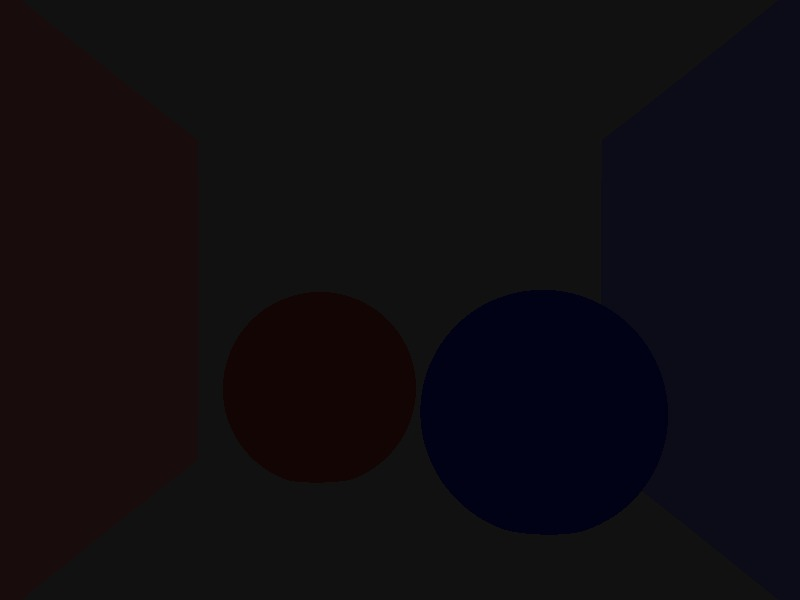
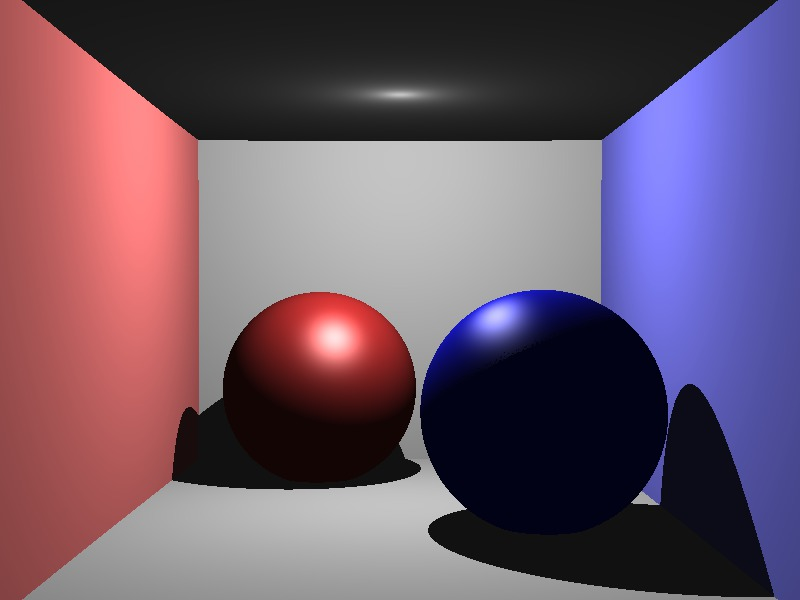
update project 3 to have the properly working shadows in the write-up

diff --git a/prj3.html b/prj3.html
@@ -167,23 +167,14 @@ pre .tex .formula {
   <div id="wrapper">
       <h1 id="project3-shadows">Project 3 - Shadows</h1>
 
-<p>In theory, a simple addition of code should produce ray-traced shadows in our scene. For some reason, this functionality is putting my entire scene in shadow. Ignoring the shadow, the shading is right, and I have quadruple-checked the shadow rays being generated. I am completely stumped.</p>
+<p>Shadows are nice and simple to compute using a ray tracer. By simply taking every point and checking to see if there are occluding objects in a scene, we can get free shadows in our ray tracer. This builds off the traceRay() functionality designed within our ray tracer, which checks to see if a ray hits any object within our scene.</p>
 
 <hr />
 
 <h2 id="testscene">Test Scene</h2>
 
-<p>entire scene in shadow:</p>
-
 <figure>
 <img src="images/prj3/test.jpg" alt="" /></figure>
-
-
-
-<p>regular shading:</p>
-
-<figure>
-<img src="images/prj3/test-shading.jpg" alt="" /></figure>
 
 
 
@@ -191,17 +182,8 @@ pre .tex .formula {
 
 <h2 id="boxscene">Box Scene</h2>
 
-<p>entire scene in shadow: </p>
-
 <figure>
 <img src="images/prj3/box.jpg" alt="" /></figure>
-
-
-
-<p>regular shading:</p>
-
-<figure>
-<img src="images/prj3/box-shading.jpg" alt="" /></figure>
 
 
 
@@ -211,9 +193,9 @@ pre .tex .formula {
 
 <p><a href="specs.html"><em>Specs</em></a></p>
 
-<p><em>Test render time:</em> <strong>0.648</strong> s</p>
+<p><em>Test render time:</em> <strong>0.531</strong> s</p>
 
-<p><em>Box render time:</em> <strong>1.210</strong> s</p>
+<p><em>Box render time:</em> <strong>1.052</strong> s</p>
 
 <hr />
 

diff --git a/md/prj3.md b/md/prj3.md
@@ -1,7 +1,7 @@
 Project 3 - Shadows
 ===================
 
-In theory, a simple addition of code should produce ray-traced shadows in our scene. For some reason, this functionality is putting my entire scene in shadow. Ignoring the shadow, the shading is right, and I have quadruple-checked the shadow rays being generated. I am completely stumped.
+Shadows are nice and simple to compute using a ray tracer. By simply taking every point and checking to see if there are occluding objects in a scene, we can get free shadows in our ray tracer. This builds off the traceRay() functionality designed within our ray tracer, which checks to see if a ray hits any object within our scene.
 
 
 - - -
@@ -10,26 +10,14 @@ In theory, a simple addition of code should produce ray-traced shadows in our sc
 Test Scene
 ----------
 
-entire scene in shadow:
-
 ![](images/prj3/test.jpg)
-
-regular shading:
-
-![](images/prj3/test-shading.jpg)
 
 - - -
 
 Box Scene
 ---------
 
-entire scene in shadow: 
-
 ![](images/prj3/box.jpg)
-
-regular shading:
-
-![](images/prj3/box-shading.jpg)
 
 - - -
 
@@ -38,8 +26,8 @@ Details
 
 [*Specs*](specs.html)
 
-*Test render time:* **0.648** s
+*Test render time:* **0.531** s
 
-*Box render time:* **1.210** s
+*Box render time:* **1.052** s
 
 - - -
